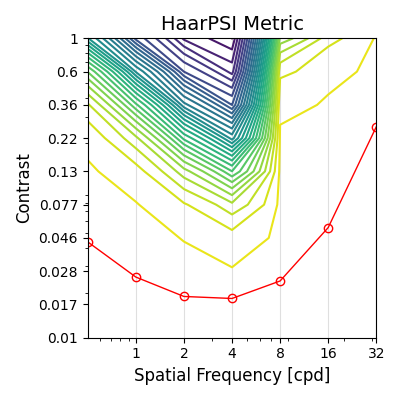
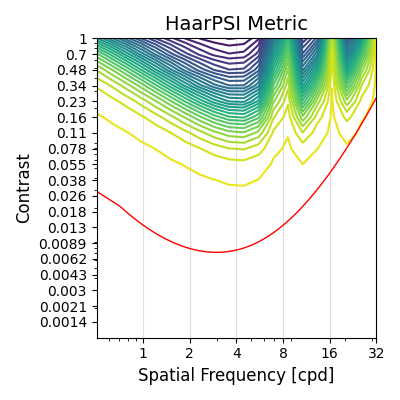
Update PyST results

diff --git a/synthetic_test_webpage/index.html b/synthetic_test_webpage/index.html
@@ -8,64 +8,146 @@
 <h2>Gabor Patch Spatial Frequency Achromatic Test</h2>
 <p> <p>See the test image <a href=gabor_patch_spatial_frequency_achromatic_test.html>gallery</a>.</p> </p>
 <div class=image-container>
-<img src="plots/gabor_tests/spatial_frequencies_ach/PSNR-Y.png" alt="PSNR-Y" />
-<img src="plots/gabor_tests/spatial_frequencies_ach/SSIM.png" alt="SSIM" />
-<img src="plots/gabor_tests/spatial_frequencies_ach/MS-SSIM.png" alt="MS-SSIM" />
+<img src="plots/gabor_tests/spatial_frequencies_ach/cvvdp.png" alt="cvvdp" />
+<img src="plots/gabor_tests/spatial_frequencies_ach/VMAF_v0.6.1.png" alt="VMAF_v0.6.1" />
+<img src="plots/gabor_tests/spatial_frequencies_ach/VMAF_v0.6.1neg.png" alt="VMAF_v0.6.1neg" />
+<img src="plots/gabor_tests/spatial_frequencies_ach/LPIPS-Alex.png" alt="LPIPS-Alex" />
+<img src="plots/gabor_tests/spatial_frequencies_ach/LPIPS-VGG.png" alt="LPIPS-VGG" />
+<img src="plots/gabor_tests/spatial_frequencies_ach/AHIQ.png" alt="AHIQ" />
+<img src="plots/gabor_tests/spatial_frequencies_ach/CKDN.png" alt="CKDN" />
+<img src="plots/gabor_tests/spatial_frequencies_ach/DISTS.png" alt="DISTS" />
+<img src="plots/gabor_tests/spatial_frequencies_ach/MAD.png" alt="MAD" />
+<img src="plots/gabor_tests/spatial_frequencies_ach/NLPD.png" alt="NLPD" />
+<img src="plots/gabor_tests/spatial_frequencies_ach/PieAPP.png" alt="PieAPP" />
+<img src="plots/gabor_tests/spatial_frequencies_ach/TOPIQ.png" alt="TOPIQ" />
+<img src="plots/gabor_tests/spatial_frequencies_ach/WaDIQaM.png" alt="WaDIQaM" />
+<img src="plots/gabor_tests/spatial_frequencies_ach/HaarPSI.png" alt="HaarPSI" />
+<img src="plots/gabor_tests/spatial_frequencies_ach/DSS.png" alt="DSS" />
+<img src="plots/gabor_tests/spatial_frequencies_ach/GMSD.png" alt="GMSD" />
+<img src="plots/gabor_tests/spatial_frequencies_ach/MS-GMSD.png" alt="MS-GMSD" />
+<img src="plots/gabor_tests/spatial_frequencies_ach/VSI.png" alt="VSI" />
+<img src="plots/gabor_tests/spatial_frequencies_ach/FSIMc.png" alt="FSIMc" />
+<img src="plots/gabor_tests/spatial_frequencies_ach/MDSI.png" alt="MDSI" />
 <img src="plots/gabor_tests/spatial_frequencies_ach/VIFp.png" alt="VIFp" />
+<img src="plots/gabor_tests/spatial_frequencies_ach/MS-SSIM.png" alt="MS-SSIM" />
+<img src="plots/gabor_tests/spatial_frequencies_ach/SSIM.png" alt="SSIM" />
+<img src="plots/gabor_tests/spatial_frequencies_ach/PSNR-Y.png" alt="PSNR-Y" />
 </div>
 <hr class="test_separator">
 <h2>Gabor Patch Spatial Frequency RG Test</h2>
 <p> <p>See the test image <a href=gabor_patch_spatial_frequency_rg_test.html>gallery</a>.</p> </p>
 <div class=image-container>
-<img src="plots/gabor_tests/spatial_frequencies_rg/PSNR-Y.png" alt="PSNR-Y" />
-<img src="plots/gabor_tests/spatial_frequencies_rg/SSIM.png" alt="SSIM" />
-<img src="plots/gabor_tests/spatial_frequencies_rg/MS-SSIM.png" alt="MS-SSIM" />
+<img src="plots/gabor_tests/spatial_frequencies_rg/cvvdp.png" alt="cvvdp" />
+<img src="plots/gabor_tests/spatial_frequencies_rg/VMAF_v0.6.1.png" alt="VMAF_v0.6.1" />
+<img src="plots/gabor_tests/spatial_frequencies_rg/VMAF_v0.6.1neg.png" alt="VMAF_v0.6.1neg" />
+<img src="plots/gabor_tests/spatial_frequencies_rg/LPIPS-Alex.png" alt="LPIPS-Alex" />
+<img src="plots/gabor_tests/spatial_frequencies_rg/LPIPS-VGG.png" alt="LPIPS-VGG" />
+<img src="plots/gabor_tests/spatial_frequencies_rg/AHIQ.png" alt="AHIQ" />
+<img src="plots/gabor_tests/spatial_frequencies_rg/CKDN.png" alt="CKDN" />
+<img src="plots/gabor_tests/spatial_frequencies_rg/DISTS.png" alt="DISTS" />
+<img src="plots/gabor_tests/spatial_frequencies_rg/MAD.png" alt="MAD" />
+<img src="plots/gabor_tests/spatial_frequencies_rg/NLPD.png" alt="NLPD" />
+<img src="plots/gabor_tests/spatial_frequencies_rg/PieAPP.png" alt="PieAPP" />
+<img src="plots/gabor_tests/spatial_frequencies_rg/TOPIQ.png" alt="TOPIQ" />
+<img src="plots/gabor_tests/spatial_frequencies_rg/WaDIQaM.png" alt="WaDIQaM" />
+<img src="plots/gabor_tests/spatial_frequencies_rg/HaarPSI.png" alt="HaarPSI" />
+<img src="plots/gabor_tests/spatial_frequencies_rg/DSS.png" alt="DSS" />
+<img src="plots/gabor_tests/spatial_frequencies_rg/GMSD.png" alt="GMSD" />
+<img src="plots/gabor_tests/spatial_frequencies_rg/MS-GMSD.png" alt="MS-GMSD" />
+<img src="plots/gabor_tests/spatial_frequencies_rg/VSI.png" alt="VSI" />
+<img src="plots/gabor_tests/spatial_frequencies_rg/FSIMc.png" alt="FSIMc" />
+<img src="plots/gabor_tests/spatial_frequencies_rg/MDSI.png" alt="MDSI" />
 <img src="plots/gabor_tests/spatial_frequencies_rg/VIFp.png" alt="VIFp" />
+<img src="plots/gabor_tests/spatial_frequencies_rg/MS-SSIM.png" alt="MS-SSIM" />
+<img src="plots/gabor_tests/spatial_frequencies_rg/SSIM.png" alt="SSIM" />
+<img src="plots/gabor_tests/spatial_frequencies_rg/PSNR-Y.png" alt="PSNR-Y" />
 </div>
 <hr class="test_separator">
 <h2>Gabor Patch Spatial Frequency YV Test</h2>
 <p> <p>See the test image <a href=gabor_patch_spatial_frequency_yv_test.html>gallery</a>.</p> </p>
 <div class=image-container>
-<img src="plots/gabor_tests/spatial_frequencies_yv/PSNR-Y.png" alt="PSNR-Y" />
-<img src="plots/gabor_tests/spatial_frequencies_yv/SSIM.png" alt="SSIM" />
-<img src="plots/gabor_tests/spatial_frequencies_yv/MS-SSIM.png" alt="MS-SSIM" />
+<img src="plots/gabor_tests/spatial_frequencies_yv/cvvdp.png" alt="cvvdp" />
+<img src="plots/gabor_tests/spatial_frequencies_yv/VMAF_v0.6.1.png" alt="VMAF_v0.6.1" />
+<img src="plots/gabor_tests/spatial_frequencies_yv/VMAF_v0.6.1neg.png" alt="VMAF_v0.6.1neg" />
+<img src="plots/gabor_tests/spatial_frequencies_yv/LPIPS-Alex.png" alt="LPIPS-Alex" />
+<img src="plots/gabor_tests/spatial_frequencies_yv/LPIPS-VGG.png" alt="LPIPS-VGG" />
+<img src="plots/gabor_tests/spatial_frequencies_yv/AHIQ.png" alt="AHIQ" />
+<img src="plots/gabor_tests/spatial_frequencies_yv/CKDN.png" alt="CKDN" />
+<img src="plots/gabor_tests/spatial_frequencies_yv/DISTS.png" alt="DISTS" />
+<img src="plots/gabor_tests/spatial_frequencies_yv/MAD.png" alt="MAD" />
+<img src="plots/gabor_tests/spatial_frequencies_yv/NLPD.png" alt="NLPD" />
+<img src="plots/gabor_tests/spatial_frequencies_yv/PieAPP.png" alt="PieAPP" />
+<img src="plots/gabor_tests/spatial_frequencies_yv/TOPIQ.png" alt="TOPIQ" />
+<img src="plots/gabor_tests/spatial_frequencies_yv/WaDIQaM.png" alt="WaDIQaM" />
+<img src="plots/gabor_tests/spatial_frequencies_yv/HaarPSI.png" alt="HaarPSI" />
+<img src="plots/gabor_tests/spatial_frequencies_yv/DSS.png" alt="DSS" />
+<img src="plots/gabor_tests/spatial_frequencies_yv/GMSD.png" alt="GMSD" />
+<img src="plots/gabor_tests/spatial_frequencies_yv/MS-GMSD.png" alt="MS-GMSD" />
+<img src="plots/gabor_tests/spatial_frequencies_yv/VSI.png" alt="VSI" />
+<img src="plots/gabor_tests/spatial_frequencies_yv/FSIMc.png" alt="FSIMc" />
+<img src="plots/gabor_tests/spatial_frequencies_yv/MDSI.png" alt="MDSI" />
 <img src="plots/gabor_tests/spatial_frequencies_yv/VIFp.png" alt="VIFp" />
+<img src="plots/gabor_tests/spatial_frequencies_yv/MS-SSIM.png" alt="MS-SSIM" />
+<img src="plots/gabor_tests/spatial_frequencies_yv/SSIM.png" alt="SSIM" />
+<img src="plots/gabor_tests/spatial_frequencies_yv/PSNR-Y.png" alt="PSNR-Y" />
 </div>
 <hr class="test_separator">
 <h2>Contrast Masking (Gabor Patch) Achromatic Test</h2>
 <p> <p>See the test image <a href=contrast_masking_(gabor_patch)_achromatic_test.html>gallery</a>.</p> </p>
 <div class=image-container>
-<img src="plots/contrast_masking/ach/PSNR-Y.png" alt="PSNR-Y" />
-<img src="plots/contrast_masking/ach/SSIM.png" alt="SSIM" />
-<img src="plots/contrast_masking/ach/MS-SSIM.png" alt="MS-SSIM" />
+<img src="plots/contrast_masking/ach/cvvdp.png" alt="cvvdp" />
+<img src="plots/contrast_masking/ach/VMAF_v0.6.1.png" alt="VMAF_v0.6.1" />
+<img src="plots/contrast_masking/ach/VMAF_v0.6.1neg.png" alt="VMAF_v0.6.1neg" />
+<img src="plots/contrast_masking/ach/LPIPS-Alex.png" alt="LPIPS-Alex" />
+<img src="plots/contrast_masking/ach/LPIPS-VGG.png" alt="LPIPS-VGG" />
+<img src="plots/contrast_masking/ach/AHIQ.png" alt="AHIQ" />
+<img src="plots/contrast_masking/ach/CKDN.png" alt="CKDN" />
+<img src="plots/contrast_masking/ach/DISTS.png" alt="DISTS" />
+<img src="plots/contrast_masking/ach/MAD.png" alt="MAD" />
+<img src="plots/contrast_masking/ach/NLPD.png" alt="NLPD" />
+<img src="plots/contrast_masking/ach/PieAPP.png" alt="PieAPP" />
+<img src="plots/contrast_masking/ach/TOPIQ.png" alt="TOPIQ" />
+<img src="plots/contrast_masking/ach/WaDIQaM.png" alt="WaDIQaM" />
+<img src="plots/contrast_masking/ach/HaarPSI.png" alt="HaarPSI" />
+<img src="plots/contrast_masking/ach/DSS.png" alt="DSS" />
+<img src="plots/contrast_masking/ach/GMSD.png" alt="GMSD" />
+<img src="plots/contrast_masking/ach/MS-GMSD.png" alt="MS-GMSD" />
+<img src="plots/contrast_masking/ach/VSI.png" alt="VSI" />
+<img src="plots/contrast_masking/ach/FSIMc.png" alt="FSIMc" />
+<img src="plots/contrast_masking/ach/MDSI.png" alt="MDSI" />
 <img src="plots/contrast_masking/ach/VIFp.png" alt="VIFp" />
+<img src="plots/contrast_masking/ach/MS-SSIM.png" alt="MS-SSIM" />
+<img src="plots/contrast_masking/ach/SSIM.png" alt="SSIM" />
+<img src="plots/contrast_masking/ach/PSNR-Y.png" alt="PSNR-Y" />
 </div>
 <hr class="test_separator">
 <h2>Gabor Patch Background Luminance with PU21 encoding - Achromatic Test</h2>
 <p> <p>See the test image <a href=gabor_patch_background_luminance_with_pu21_encoding_-_achromatic_test.html>gallery</a>.</p> </p>
 <div class=image-container>
-<img src="plots/gabor_tests/luminances_pu21_ach/PSNR-Y.png" alt="PSNR-Y" />
-<img src="plots/gabor_tests/luminances_pu21_ach/SSIM.png" alt="SSIM" />
-<img src="plots/gabor_tests/luminances_pu21_ach/MS-SSIM.png" alt="MS-SSIM" />
+<img src="plots/gabor_tests/luminances_pu21_ach/cvvdp.png" alt="cvvdp" />
+<img src="plots/gabor_tests/luminances_pu21_ach/VMAF_v0.6.1.png" alt="VMAF_v0.6.1" />
+<img src="plots/gabor_tests/luminances_pu21_ach/VMAF_v0.6.1neg.png" alt="VMAF_v0.6.1neg" />
+<img src="plots/gabor_tests/luminances_pu21_ach/LPIPS-Alex.png" alt="LPIPS-Alex" />
+<img src="plots/gabor_tests/luminances_pu21_ach/LPIPS-VGG.png" alt="LPIPS-VGG" />
+<img src="plots/gabor_tests/luminances_pu21_ach/AHIQ.png" alt="AHIQ" />
+<img src="plots/gabor_tests/luminances_pu21_ach/CKDN.png" alt="CKDN" />
+<img src="plots/gabor_tests/luminances_pu21_ach/DISTS.png" alt="DISTS" />
+<img src="plots/gabor_tests/luminances_pu21_ach/MAD.png" alt="MAD" />
+<img src="plots/gabor_tests/luminances_pu21_ach/NLPD.png" alt="NLPD" />
+<img src="plots/gabor_tests/luminances_pu21_ach/PieAPP.png" alt="PieAPP" />
+<img src="plots/gabor_tests/luminances_pu21_ach/TOPIQ.png" alt="TOPIQ" />
+<img src="plots/gabor_tests/luminances_pu21_ach/WaDIQaM.png" alt="WaDIQaM" />
+<img src="plots/gabor_tests/luminances_pu21_ach/HaarPSI.png" alt="HaarPSI" />
+<img src="plots/gabor_tests/luminances_pu21_ach/DSS.png" alt="DSS" />
+<img src="plots/gabor_tests/luminances_pu21_ach/GMSD.png" alt="GMSD" />
+<img src="plots/gabor_tests/luminances_pu21_ach/MS-GMSD.png" alt="MS-GMSD" />
+<img src="plots/gabor_tests/luminances_pu21_ach/VSI.png" alt="VSI" />
+<img src="plots/gabor_tests/luminances_pu21_ach/FSIMc.png" alt="FSIMc" />
+<img src="plots/gabor_tests/luminances_pu21_ach/MDSI.png" alt="MDSI" />
 <img src="plots/gabor_tests/luminances_pu21_ach/VIFp.png" alt="VIFp" />
-</div>
-<hr class="test_separator">
-<h2>Gabor Patch Background Luminance with PQ encoding - Achromatic Test</h2>
-<p> <p>See the test image <a href=gabor_patch_background_luminance_with_pq_encoding_-_achromatic_test.html>gallery</a>.</p> </p>
-<div class=image-container>
-<img src="plots/gabor_tests/luminances_pq_ach/PSNR-Y.png" alt="PSNR-Y" />
-<img src="plots/gabor_tests/luminances_pq_ach/SSIM.png" alt="SSIM" />
-<img src="plots/gabor_tests/luminances_pq_ach/MS-SSIM.png" alt="MS-SSIM" />
-<img src="plots/gabor_tests/luminances_pq_ach/VIFp.png" alt="VIFp" />
-</div>
-<hr class="test_separator">
-<h2>Gabor Patch Background Luminance with HLG encoding - Achromatic Test</h2>
-<p> <p>See the test image <a href=gabor_patch_background_luminance_with_hlg_encoding_-_achromatic_test.html>gallery</a>.</p> </p>
-<div class=image-container>
-<img src="plots/gabor_tests/luminances_hlg_ach/PSNR-Y.png" alt="PSNR-Y" />
-<img src="plots/gabor_tests/luminances_hlg_ach/SSIM.png" alt="SSIM" />
-<img src="plots/gabor_tests/luminances_hlg_ach/MS-SSIM.png" alt="MS-SSIM" />
-<img src="plots/gabor_tests/luminances_hlg_ach/VIFp.png" alt="VIFp" />
+<img src="plots/gabor_tests/luminances_pu21_ach/MS-SSIM.png" alt="MS-SSIM" />
+<img src="plots/gabor_tests/luminances_pu21_ach/SSIM.png" alt="SSIM" />
+<img src="plots/gabor_tests/luminances_pu21_ach/PSNR-Y.png" alt="PSNR-Y" />
 </div>
 
 
